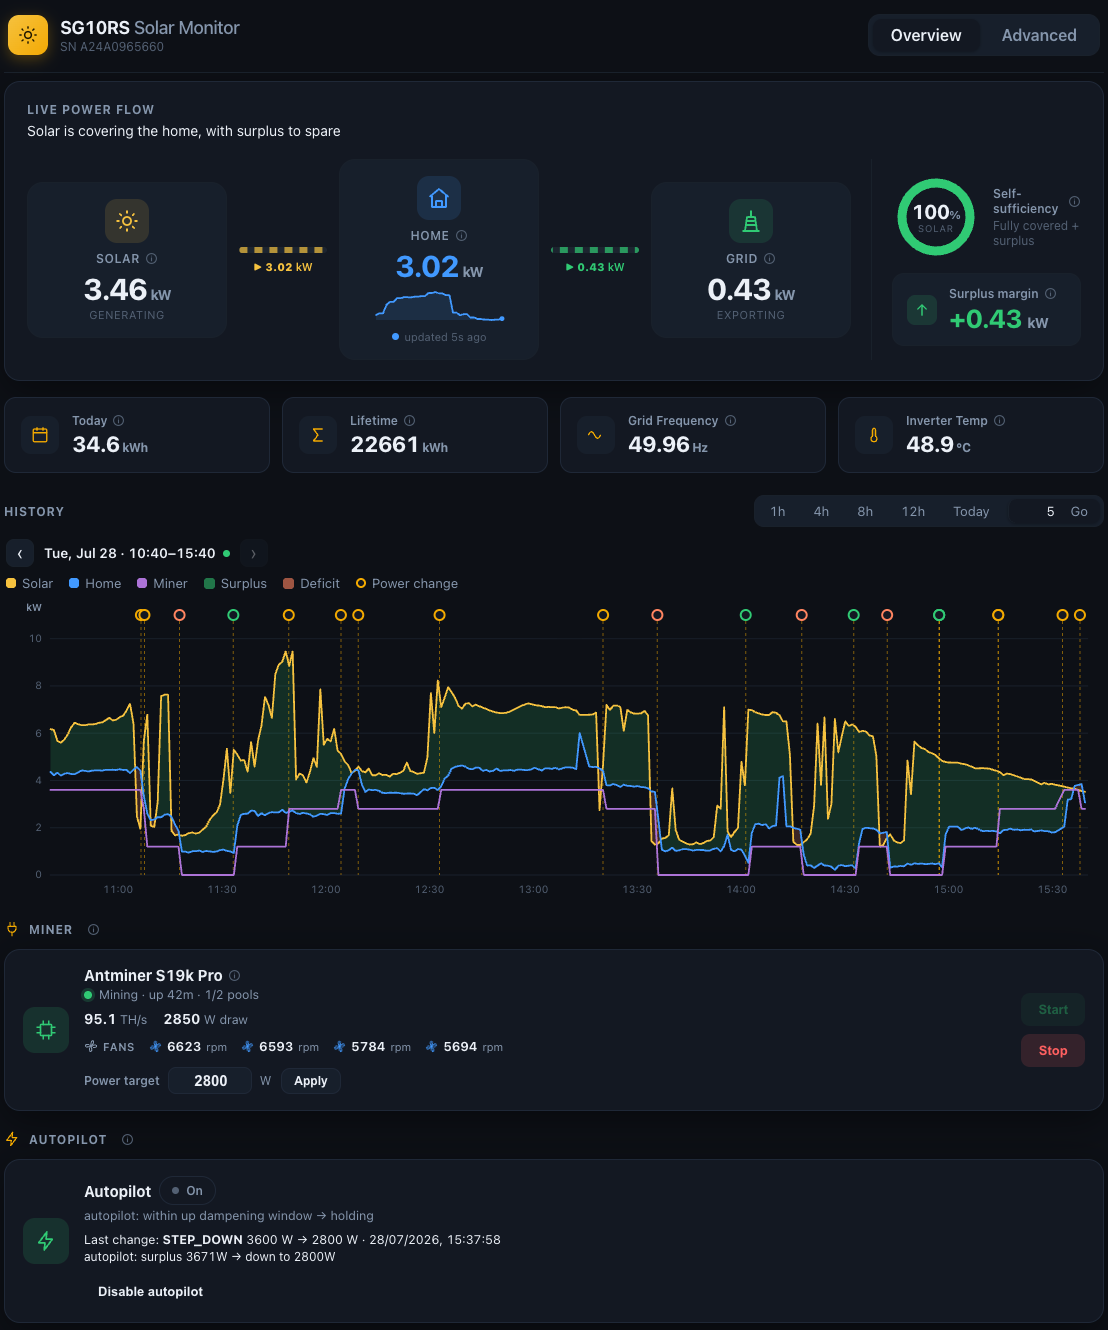
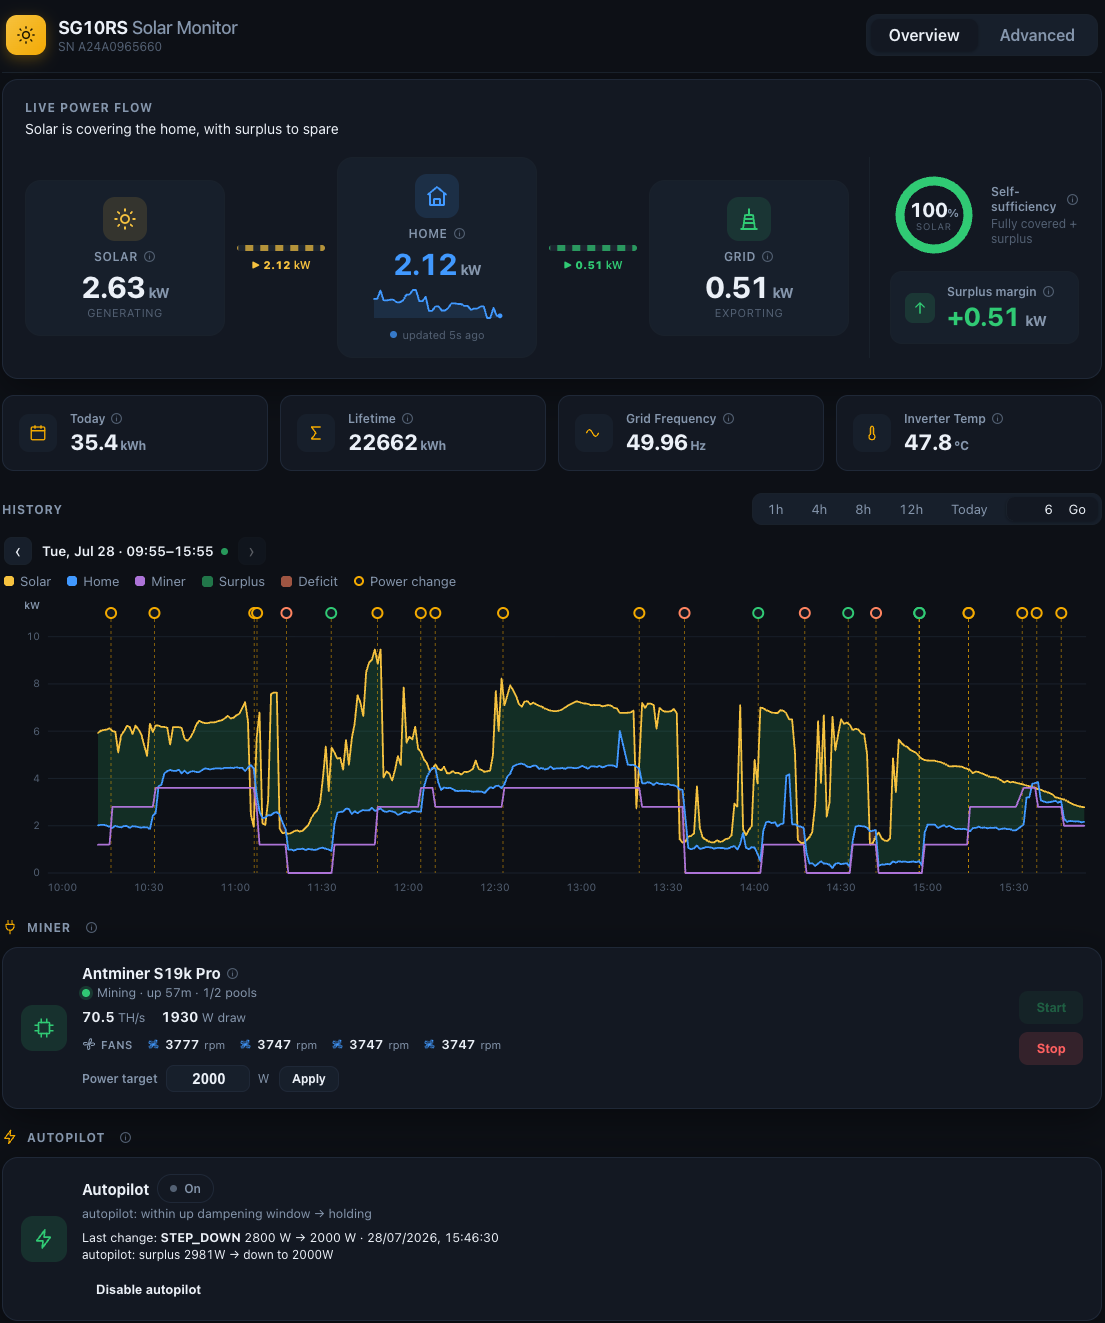
1.3.7: stop duplicate history events on restart + tidy the autopilot card
Duplicate power-change events (confirmed a real bug, not intentional retries)
- Raw events file showed the same change written 2–3× with IDENTICAL epoch-millisecond
  timestamps (e.g. START at 1785214637170 ×3). Three genuine sends would each stamp a
  distinct Instant.now() ~30 s apart, and the autopilot has no retry path — so these are
  the SAME change re-serialised, not retries.
- Cause: the restore-last-change-from-history feature (1.3.3) sets the autopilot's
  lastChange to the restored event (original timestamp) on boot; TelemetryRecorder's
  in-memory dedup marker resets on restart, so its first tick re-recorded that already-
  persisted change. Count varied (2–3) with the race between the recorder's first tick
  and the first post-restart decision.
- Fix: on its first tick the recorder seeds its dedup marker from
  TelemetryStore.latestEvent(), so a restored change (same timestamp) is not written
  again; a genuinely newer change still records. + regression test.

Autopilot card (UI)
- Moved the Enable/Disable button up into the header row, right of the On/Off pill
  (saves a whole row of vertical space) and styled it as a compact button.
- Cleaner, more professional layout/wording: drop the redundant "autopilot:" prefix from
  the shown decision/reason, and present the last action as a labelled one-line summary
  (LAST ACTION · action · from→to · time) with the reason on its own line.

298 backend + 89 UI tests green.

diff --git a/frontend/src/App.jsx b/frontend/src/App.jsx
@@ -326,30 +326,34 @@ export function AutopilotCard({ autopilot, pending, onToggle }) {
     return Number.isNaN(d.getTime()) ? null : d.toLocaleString()
   }
   const power = (w) => (w == null ? 'off' : `${w} W`)
+  // The card is already titled "Autopilot", so drop the redundant "autopilot:" prefix the engine
+  // puts on every decision/reason string for a cleaner read.
+  const clean = (s) => (s || '').replace(/^autopilot:\s*/i, '')
+  const decision = clean(autopilot?.lastDecision) || 'Awaiting first evaluation'
   return (
     <div className={`plug card autopilot ${enabled ? 'is-on' : 'is-off'}`}>
       <div className="plug-icon"><Icon name="bolt" size={22} /></div>
       <div className="plug-body">
-        <div className="plug-name">
-          Autopilot
-          <span className={`pill ${enabled ? 'up' : 'down'}`} style={{ marginLeft: 8 }}>
-            <span className="pdot" />{enabled ? 'On' : 'Off'}
-          </span>
+        <div className="ap-head">
+          <span className="ap-title">Autopilot</span>
+          <span className={`pill ${enabled ? 'up' : 'down'}`}><span className="pdot" />{enabled ? 'On' : 'Off'}</span>
+          <button type="button" className={`ap-toggle ${enabled ? 'is-off' : 'is-on'}`}
+                  disabled={pending} onClick={onToggle}>
+            {pending ? '…' : enabled ? 'Disable autopilot' : 'Enable autopilot'}
+          </button>
         </div>
-        <div className="plug-status" aria-label="last decision">{autopilot?.lastDecision || '—'}</div>
+        <div className="ap-decision" aria-label="last decision">{decision}</div>
         {c ? (
           <div className="ap-change">
-            Last change: <strong>{c.action}</strong> {power(c.fromPowerW)} → {power(c.toPowerW)}
-            {fmtTime(c.at) && <span className="muted"> · {fmtTime(c.at)}</span>}
-            {c.detail && <div className="ap-detail muted">{c.detail}</div>}
+            <span className="ap-change-label">Last action</span>
+            <strong>{c.action}</strong>
+            <span className="ap-power">{power(c.fromPowerW)} → {power(c.toPowerW)}</span>
+            {fmtTime(c.at) && <span className="ap-time muted">{fmtTime(c.at)}</span>}
+            {c.detail && <div className="ap-detail muted">{clean(c.detail)}</div>}
           </div>
         ) : (
           <div className="ap-change muted">No changes made yet</div>
         )}
-        <button type="button" className={`ap-toggle ${enabled ? 'is-off' : 'is-on'}`}
-                disabled={pending} onClick={onToggle}>
-          {pending ? '…' : enabled ? 'Disable autopilot' : 'Enable autopilot'}
-        </button>
       </div>
     </div>
   )

diff --git a/frontend/src/styles.css b/frontend/src/styles.css
@@ -323,11 +323,20 @@ body {
 /* ---------------------------------------------------------------- autopilot */
 .autopilot.is-on .plug-icon { color: var(--good); background: rgba(53, 208, 127, 0.14); }
 .autopilot.is-off .plug-icon { color: var(--muted); }
-.ap-change { font-size: 12.5px; margin-top: 6px; }
-.ap-detail { font-size: 12px; margin-top: 2px; }
+/* header row: title + On/Off pill on the left, the toggle button pushed to the right */
+.ap-head { display: flex; align-items: center; gap: 8px; }
+.ap-title { font-weight: 700; font-size: 15px; }
+.ap-head .ap-toggle { margin-left: auto; }
+.ap-decision { font-size: 12.5px; color: var(--muted); margin-top: 7px; }
+/* last-action summary on one wrapping line; the detail/reason drops to its own line */
+.ap-change { font-size: 12.5px; margin-top: 8px; display: flex; flex-wrap: wrap; align-items: baseline; gap: 6px; }
+.ap-change-label { color: var(--faint); text-transform: uppercase; letter-spacing: 0.05em; font-size: 10px; font-weight: 700; }
+.ap-power { color: var(--text); }
+.ap-time { margin-left: auto; }
+.ap-detail { flex-basis: 100%; font-size: 12px; margin-top: 1px; }
 .ap-toggle {
-  margin-top: 10px; align-self: flex-start; padding: 7px 14px; font-size: 13px; font-weight: 700;
-  border: none; border-radius: 9px; cursor: pointer;
+  padding: 6px 13px; font-size: 12.5px; font-weight: 700; white-space: nowrap;
+  border: none; border-radius: 8px; cursor: pointer;
 }
 .ap-toggle.is-on { background: var(--good); color: #0a1f12; }        /* action: turn on */
 .ap-toggle.is-off { background: var(--line); color: var(--text); }   /* action: turn off */

diff --git a/backend/src/test/java/io/dmitrykislov/miner/history/TelemetryRecorderTest.java b/backend/src/test/java/io/dmitrykislov/miner/history/TelemetryRecorderTest.java
@@ -134,6 +134,27 @@ class TelemetryRecorderTest {
                 .containsExactly("STEP_UP", "STEP_DOWN");
     }
 
+    @Test void doesNotReRecordAChangeRestoredFromHistoryOnRestart() {
+        // On restart the autopilot restores its last change from history (same timestamp). The
+        // recorder must not write that already-persisted event again as a duplicate row.
+        Instant t1 = Instant.parse("2026-07-27T12:00:00Z");
+        when(store.latestEvent()).thenReturn(new PowerChangeEvent(t1, "START", null, 1200, "restart"));
+        when(inverter.latest()).thenReturn(null);
+        when(miner.latest()).thenReturn(null);
+        when(autopilot.latest()).thenReturn(new AutopilotStatus(true, t1, "restart", t1,
+                new AutopilotStatus.Change(t1, "START", null, 1200, "restart")));
+
+        recorder.record();
+        verify(store, never()).recordEvent(any());   // already persisted → not duplicated
+
+        // A genuinely newer change is still recorded.
+        Instant t2 = t1.plusSeconds(60);
+        when(autopilot.latest()).thenReturn(new AutopilotStatus(true, t2, "up", t2,
+                new AutopilotStatus.Change(t2, "STEP_UP", 1200, 2800, "up")));
+        recorder.record();
+        verify(store, times(1)).recordEvent(any());   // exactly the new one, once
+    }
+
     @Test void disabledRecorderDoesNothing() {
         var disabled = new TelemetryRecorder(new HistoryProperties(false, "data", 60_000, 31),
                 store, inverter, miner, autopilot);

diff --git a/backend/src/main/java/io/dmitrykislov/miner/history/TelemetryRecorder.java b/backend/src/main/java/io/dmitrykislov/miner/history/TelemetryRecorder.java
@@ -27,7 +27,8 @@ public class TelemetryRecorder {
     private final MinerStreamService miner;
     private final AutopilotStreamService autopilot;
 
-    private volatile Instant lastEventAt; // dedup: only record an autopilot change once
+    private volatile Instant lastEventAt; // dedup: the timestamp of the last event we wrote
+    private volatile boolean seeded;      // false until lastEventAt is seeded from persisted history
 
     public TelemetryRecorder(HistoryProperties cfg, TelemetryStore store, InverterStreamService inverter,
                              MinerStreamService miner, AutopilotStreamService autopilot) {
@@ -42,6 +43,14 @@ public class TelemetryRecorder {
                initialDelayString = "${house.history.record-interval-ms:60000}")
     public void record() {
         if (!cfg.enabled()) return;
+        if (!seeded) {
+            // Seed the dedup marker from the newest persisted event so a change the autopilot
+            // RESTORED from history on restart (identical timestamp) is not written again as a
+            // duplicate row. A genuinely newer change still records (its timestamp is later).
+            PowerChangeEvent last = store.latestEvent();
+            if (last != null) lastEventAt = last.at();
+            seeded = true;
+        }
         Instant now = Instant.now();
         store.recordSample(sample(now));
         captureNewEvent();
